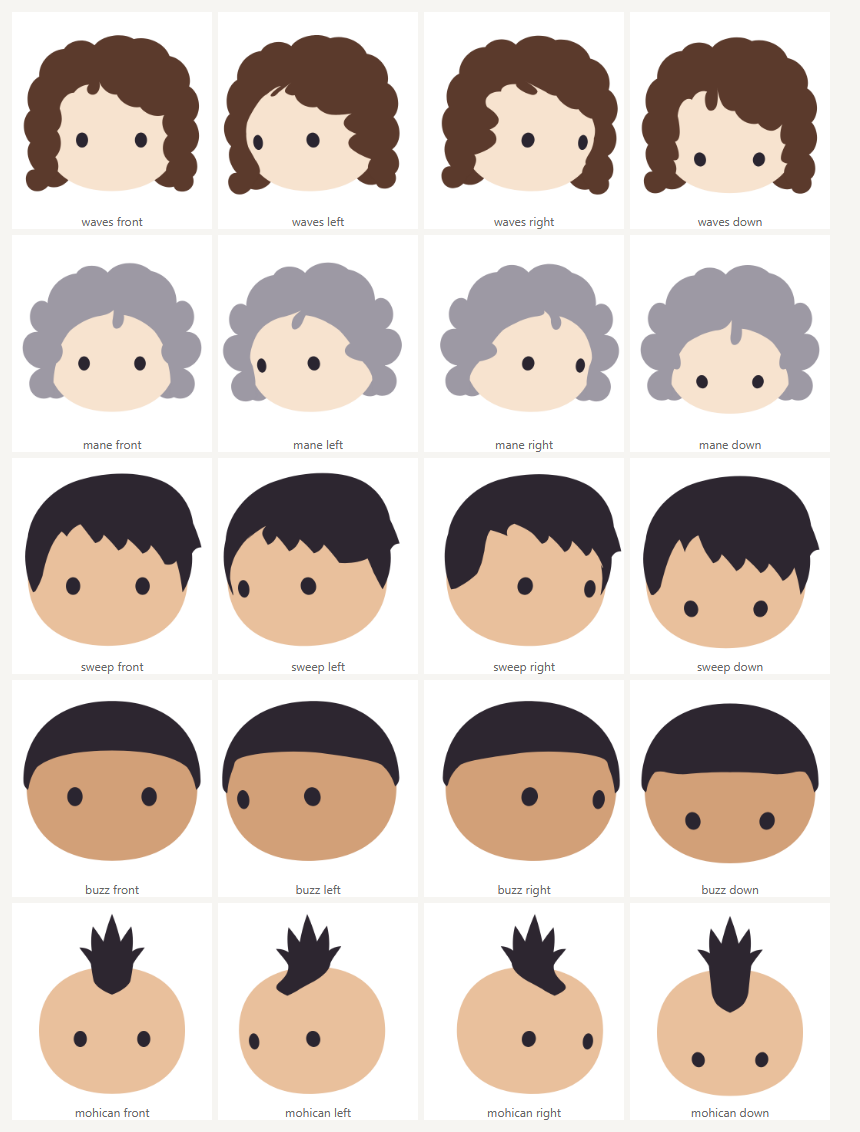
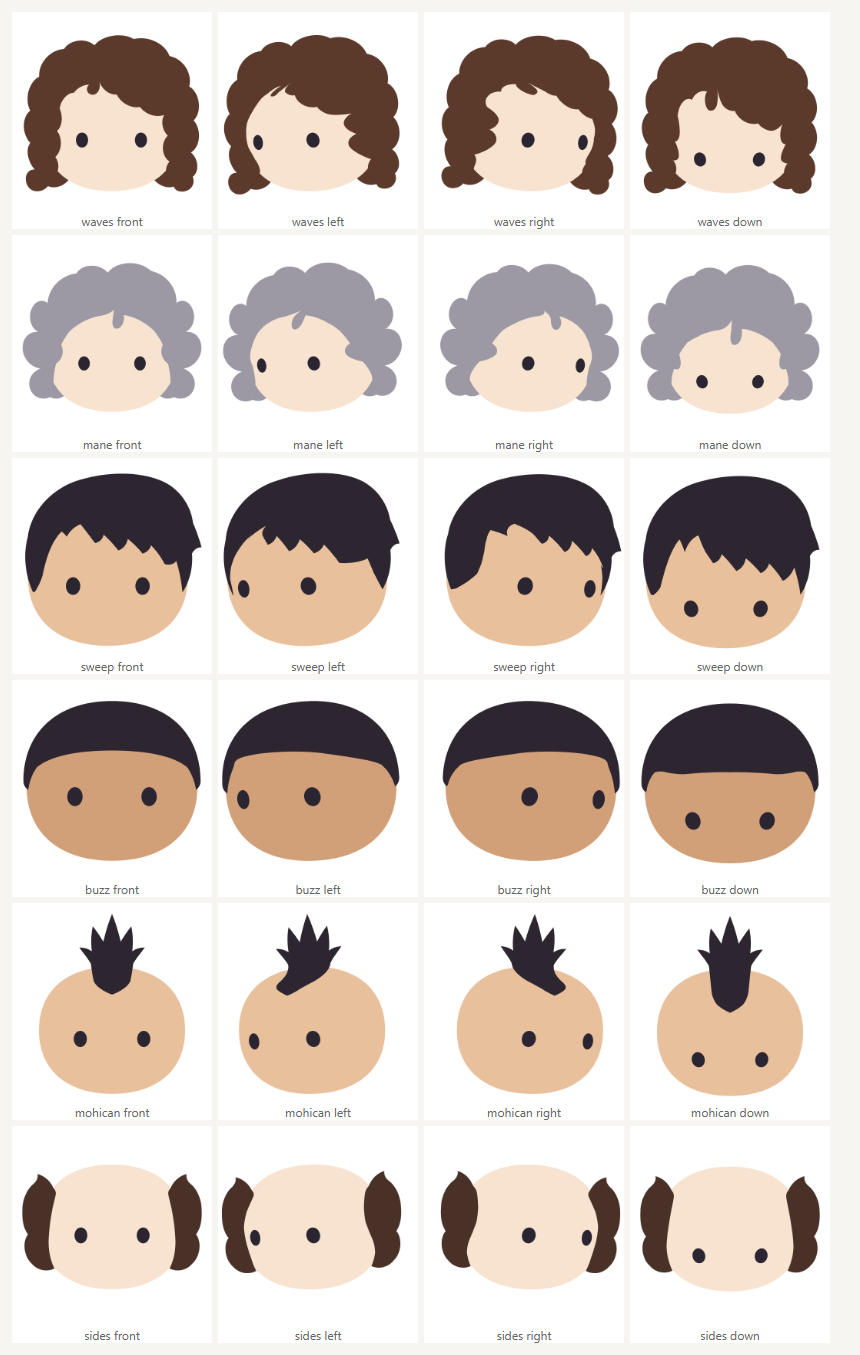
Add a sixth hair style, sides: bald over the crown with hair at each side
sides leaves the crown bare and keeps a mass of hair at each side of the
head, standing out past it from the temple down to the jaw: a flick at the
top, two swells below it, and a tuck in under the cheek. It is two shapes,
one the reflection of the other, each with its rim off the head and its inner
edge on the face.

The test of the hair styles now holds every shape over the head to the same
form, a rim, a hairline on the face and the rim again, and every shape behind
the head to having nothing on the face.

diff --git a/test/draw.test.ts b/test/draw.test.ts
@@ -45,22 +45,33 @@ test("a shape turns when some of it lies on the face, and an eye lies on it whol
   );
 });
 
-test("every hair is one shape over the head whose rim stays and whose hairline is on the face", () => {
+test("every hair is flat shapes whose rim stays and whose hairline is on the face", () => {
   const styles = PARTS.filter((part) => part.slot === "hair");
   assert.deepEqual(
     styles.map((part) => part.id),
-    ["waves", "mane", "sweep", "buzz", "mohican"],
+    ["waves", "mane", "sweep", "buzz", "mohican", "sides"],
   );
   for (const part of styles) {
-    const hair = draw(parseAvatar(`v1.${part.id}`)).shapes.at(-1);
-    assert.ok(hair, part.id);
-    const onFace = hair.segments.map((segment) => segment.face);
-    // A run of rim, a run of hairline, and the rim again to close.
-    const runs = onFace.filter((on, i) => on !== onFace[i - 1]);
-    assert.deepEqual(runs, [false, true, false], part.id);
-    assert.equal(hair.segments.at(-1)?.command, "Z", part.id);
+    const [behind, over] = [
+      part.layers.filter((layer) => layer.z < 40).flatMap((layer) => layer.shapes),
+      part.layers.filter((layer) => layer.z > 40).flatMap((layer) => layer.shapes),
+    ];
+    assert.ok(over.length > 0, part.id);
+    for (const shape of over) {
+      const onFace = segmentsOf(shape.d).map((segment) => segment.face);
+      // A run of rim, a run of hairline, and the rim again to close.
+      const runs = onFace.filter((on, i) => on !== onFace[i - 1]);
+      assert.deepEqual(runs, [false, true, false], part.id);
+      assert.equal(segmentsOf(shape.d).at(-1)?.command, "Z", part.id);
+    }
+    // What is behind the head has nothing on the face.
+    for (const shape of behind)
+      assert.ok(
+        segmentsOf(shape.d).every((segment) => !segment.face),
+        part.id,
+      );
     // One flat colour: every shape of the hair is filled with it and has no line.
-    for (const shape of part.layers.flatMap((layer) => layer.shapes))
+    for (const shape of [...behind, ...over])
       assert.deepEqual([shape.fill, shape.stroke], ["0", undefined], part.id);
   }
 });

diff --git a/src/parts/hair/sides.ts b/src/parts/hair/sides.ts
@@ -1,0 +1,42 @@
+import { face, type Part, type Shape, Z } from "../../part.ts";
+
+/** A path's reflection across the figure's middle. */
+const mirror = (d: string) => {
+  let x = true;
+  return d.replace(/-?\d+(\.\d+)?|[A-Za-z]/g, (token) => {
+    if (/[A-Za-z]/.test(token)) {
+      x = true;
+      return token;
+    }
+    const value = x ? String(Math.round((100 - Number(token)) * 100) / 100) : token;
+    x = !x;
+    return value;
+  });
+};
+
+/** The hair at one side of the head, drawn for the right and reflected for the left. Its rim
+ * stands out past the head from the temple down to the jaw, in a flick at the top and two
+ * swells below it, and tucks in under the cheek; its inner edge lies on the face. */
+const side = (flip: (d: string) => string): Shape => ({
+  d: [
+    flip(
+      "M81 35C82.5 31.5 85.5 28.5 89.5 27.5C89 30 90.5 32 92.5 33.5C95.5 36.5 97.5 41.5 97.5 46.5C97.8 52 96.8 56.5 94.5 59.5C97.5 63 97 71 92.5 75C89.5 78.5 84.5 79.5 80.5 77.5",
+    ),
+    face(
+      flip(
+        "C82.6 73.5 83.8 68 83.6 62.5C83.4 57 82.6 51 81.6 46C80.8 42.5 80 39.5 79.8 38C79.7 36.8 80.2 35.8 81 35",
+      ),
+    ),
+    "Z",
+  ],
+  fill: "0",
+});
+
+/** Bald over the crown, with hair left at each side: a mass that stands out past the head from
+ * the temple down to the jaw. */
+export const sides: Part = {
+  id: "sides",
+  slot: "hair",
+  colors: ["4a3128"],
+  layers: [{ z: Z.hair, shapes: [side((d) => d), side(mirror)] }],
+};

diff --git a/src/parts/index.ts b/src/parts/index.ts
@@ -5,10 +5,11 @@ import { round } from "./face/round.ts";
 import { buzz } from "./hair/buzz.ts";
 import { mane } from "./hair/mane.ts";
 import { mohican } from "./hair/mohican.ts";
+import { sides } from "./hair/sides.ts";
 import { sweep } from "./hair/sweep.ts";
 import { waves } from "./hair/waves.ts";
 
-export const PARTS: readonly Part[] = [round, dot, waves, mane, sweep, buzz, mohican];
+export const PARTS: readonly Part[] = [round, dot, waves, mane, sweep, buzz, mohican, sides];
 
 const byId = new Map(PARTS.map((part) => [part.id, part]));
 export const partOf = (id: string): Part | undefined => byId.get(id);

diff --git a/demo/demo.ts b/demo/demo.ts
@@ -32,12 +32,12 @@ const SEEDS = [
 ];
 /** Avatars with hair, which seeds do not choose yet. */
 const DRESSED = [
+  "v1.round-f7e3cf.dot-2a2530.sides-4a3128",
   "v1.round-e9c09c.dot-2a2530.mohican-2d2630",
   "v1.round-d2a078.dot-2a2530.buzz-2d2630",
   "v1.round-e9c09c.dot-2a2530.sweep-2d2630",
   "v1.round-f7e3cf.dot-2a2530.mane-9d99a4",
   "v1.round-f7e3cf.dot-2a2530.waves-5b3a2c",
-  "v1.round-f4d6b8.dot-2a2530.mohican-b4513a",
 ];
 const STATES: State[] = ["idle", "working", "asleep"];
 const ACROSS = [-1, -0.66, -0.33, 0, 0.33, 0.66, 1];

diff --git a/README.md b/README.md
@@ -9,10 +9,10 @@ The library has no dependencies and loads nothing: every drawing is in its code.
 SVG with DOM calls and moves it through SVG attributes, so it works under a content policy that
 allows neither inline styles nor code from text.
 
-This is a prototype: the face, the eyes, and five hair styles, each flat and known by its
-outline. More are being added one at a time. It is not on npm yet.
+This is a prototype: the face, the eyes, and six hair styles, each flat and known by its
+outline. It is not on npm yet.
 
-![The five hair styles, each front on and looking left, right and down](docs/hair.png)
+![The six hair styles, each front on and looking left, right and down](docs/hair.png)
 
 ## The avatar's string
 
@@ -71,8 +71,8 @@ reduced motion. All the avatars in a page share one clock, which moves them 30 t
 redraws an avatar only when it would change by a quarter of a screen pixel. A picture is a
 square that fits its figure, so an avatar with full hair is drawn a little smaller.
 
-A seed chooses a face and eyes; hair is put on by a string, as `waves`, `mane`, `sweep`, `buzz` or
-`mohican`.
+A seed chooses a face and eyes; hair is put on by a string, as `waves`, `mane`, `sweep`, `buzz`,
+`mohican` or `sides`.
 
 `parseAvatar` reads a string into its settings and throws `AvatarStringError` for text that is
 not one; `formatAvatar` writes settings back. `PARTS` and `SLOTS` list the catalog, for an editor.
